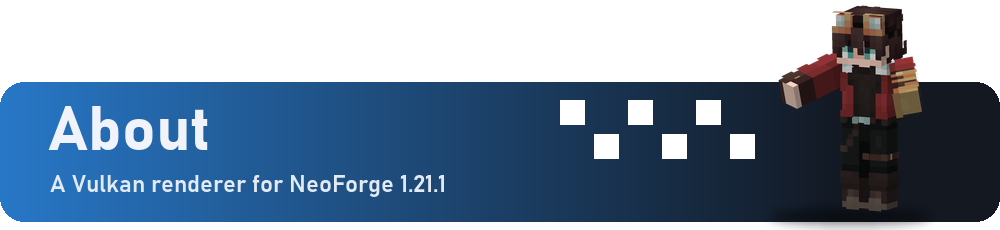
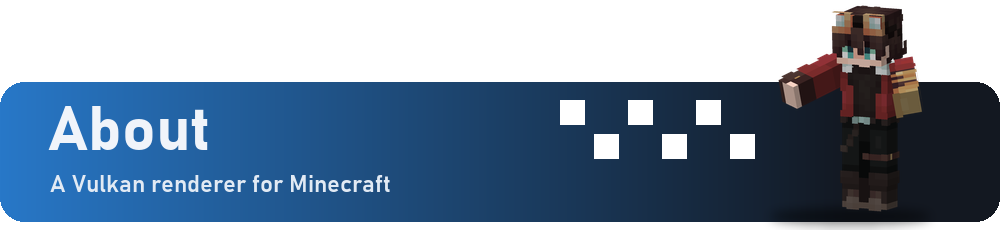
docs: stop tying the Modrinth page to one loader
The project will cover more Minecraft versions and loaders, so the
banner and About title no longer name NeoForge 1.21.1. The requirements
and FAQ still say the current build is NeoForge 1.21.1 only.

Changed region(s): [[0.279, 0.7609, 0.465, 0.8522]]

diff --git a/docs/modrinth/description.md b/docs/modrinth/description.md
@@ -34,7 +34,7 @@ Ray tracing and shader packs lower these numbers, as in any renderer.
 
 <img src="https://raw.githubusercontent.com/redstone-md/Overhaul/main/docs/assets/modrinth/title-requirements.png" alt="Requirements" width="100%">
 
-- Minecraft **1.21.1** with **NeoForge 21.1.x**, on Windows x64.
+- For now: Minecraft **1.21.1** with **NeoForge 21.1.x**, on Windows x64.
 - A GPU and driver with **Vulkan 1.2**.
 - Ray tracing: NVIDIA RTX 20 series or newer, or AMD RX 6000 series or newer.
 - DLSS: an NVIDIA RTX GPU.
@@ -49,7 +49,7 @@ Ray tracing and shader packs lower these numbers, as in any renderer.
 
 <img src="https://raw.githubusercontent.com/redstone-md/Overhaul/main/docs/assets/modrinth/title-faq.png" alt="FAQ" width="100%">
 
-**Does it work with Fabric?** Not yet. This release is for NeoForge 1.21.1.
+**Does it work with Fabric or other Minecraft versions?** Not yet. The first build is for NeoForge 1.21.1. More Minecraft versions and loaders, Fabric and Forge among them, are planned.
 
 **Do I need it on the server?** No. Overhaul is client-side only.
 
